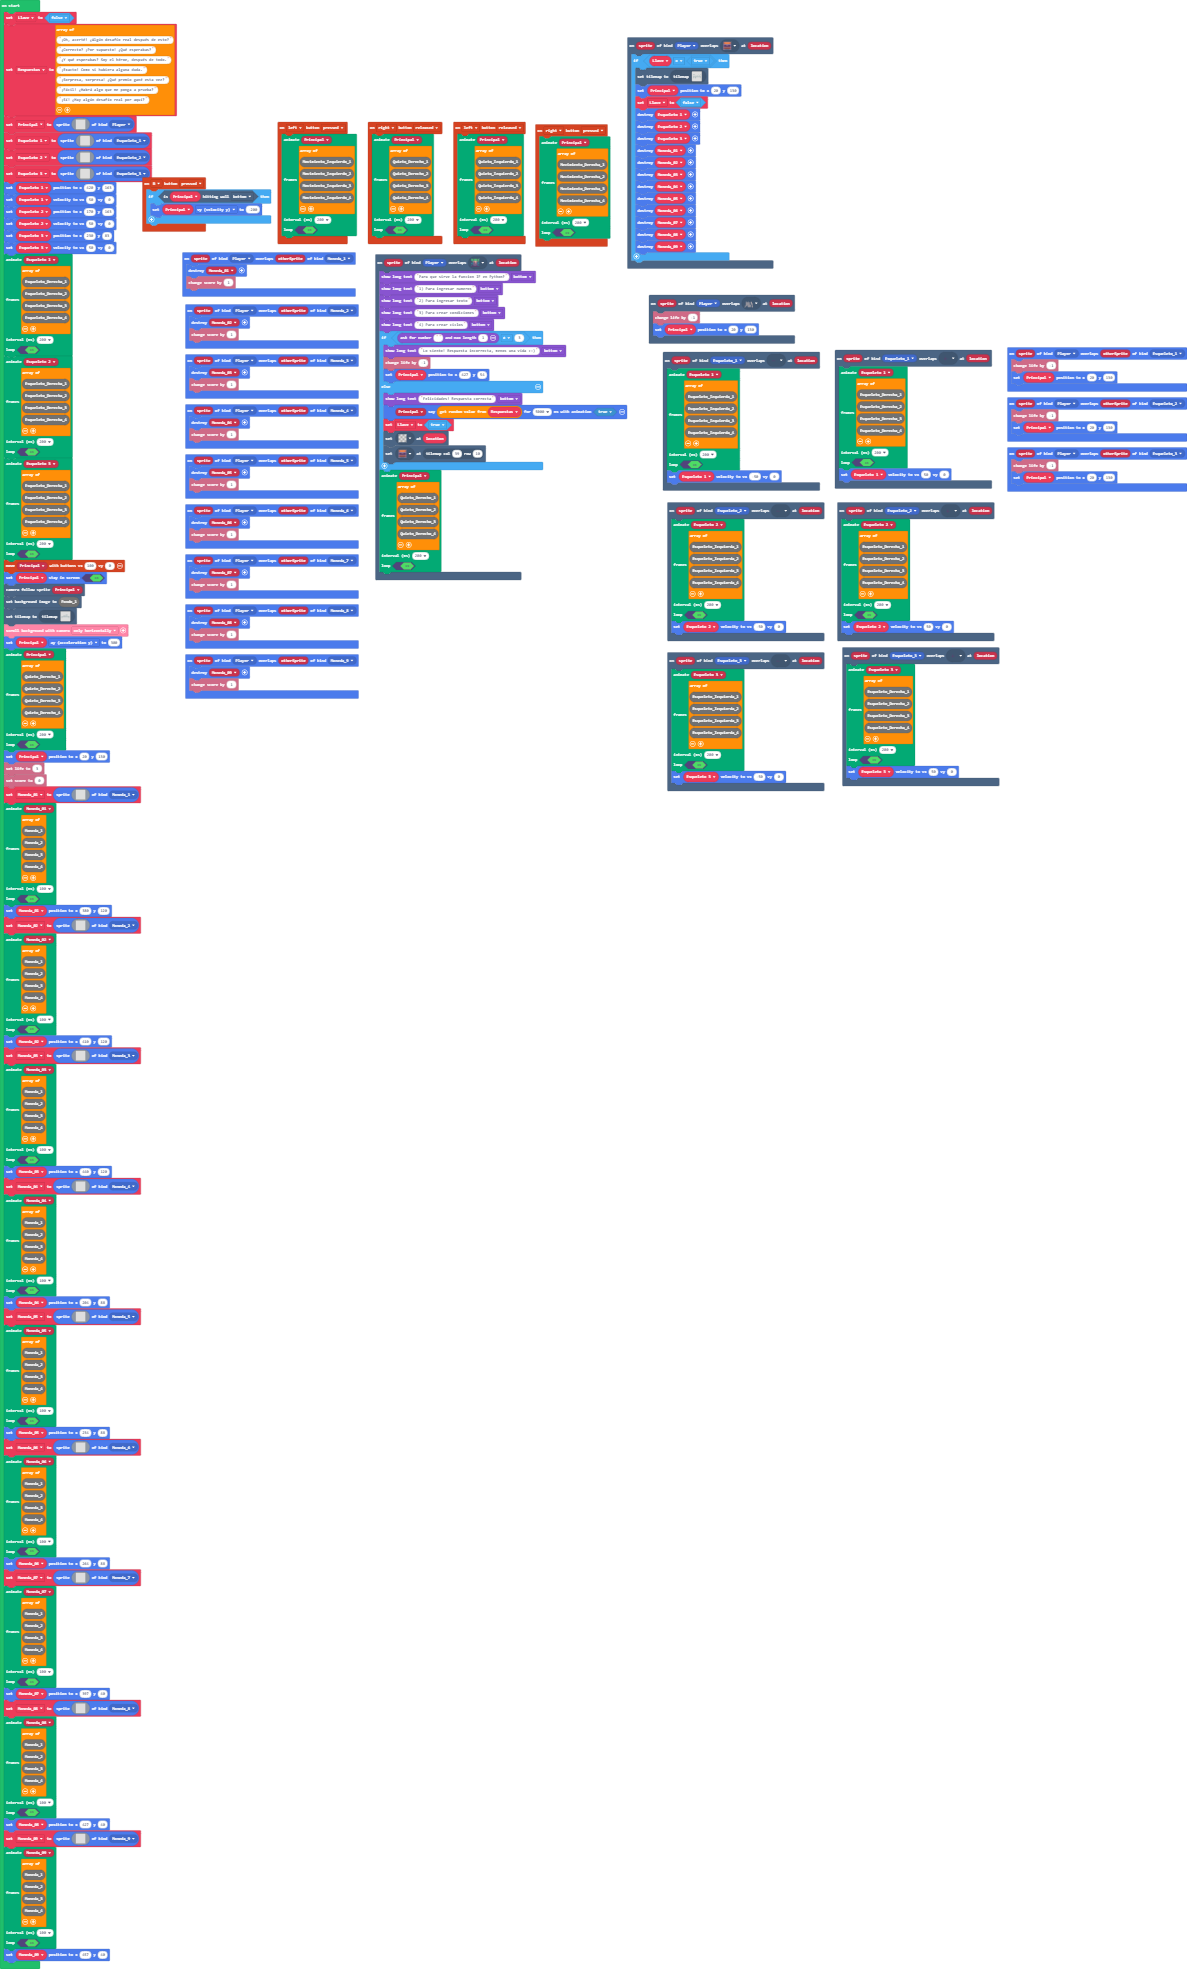
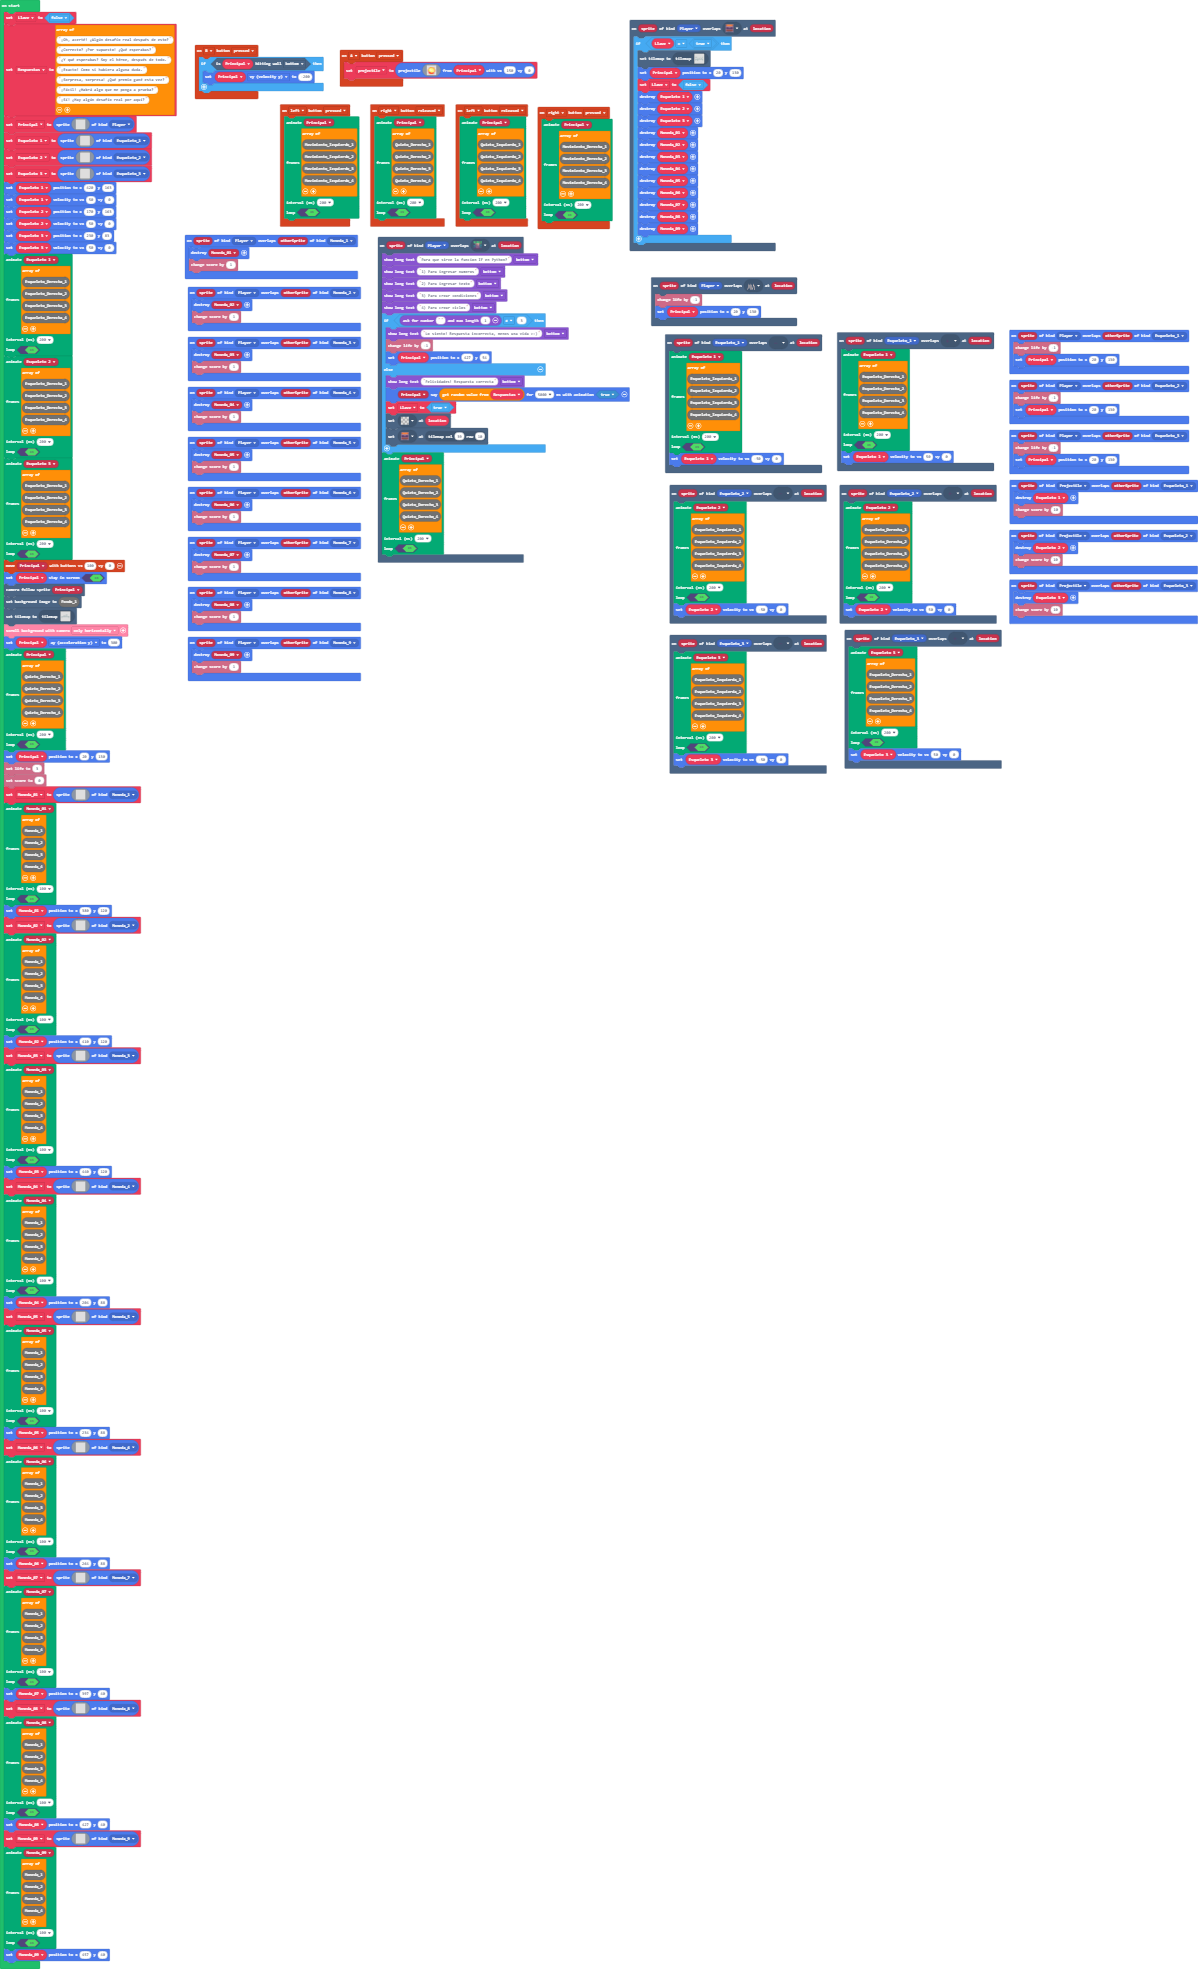
Muchas mas cosas

diff --git a/main.ts b/main.ts
@@ -26,6 +26,10 @@ scene.onOverlapTile(SpriteKind.Esqueleto_2, assets.tile`Izquierda`, function (sp
     )
     Esqueleto_2.setVelocity(-50, 0)
 })
+sprites.onOverlap(SpriteKind.Projectile, SpriteKind.Esqueleto_1, function (sprite, otherSprite) {
+    sprites.destroy(Esqueleto_1)
+    info.changeScoreBy(10)
+})
 controller.B.onEvent(ControllerButtonEvent.Pressed, function () {
     if (Principal.isHittingTile(CollisionDirection.Bottom)) {
         Principal.vy = -200
@@ -34,6 +38,26 @@ controller.B.onEvent(ControllerButtonEvent.Pressed, function () {
 scene.onOverlapTile(SpriteKind.Player, assets.tile`myTile`, function (sprite, location) {
     info.changeLifeBy(-1)
     Principal.setPosition(20, 130)
+})
+controller.A.onEvent(ControllerButtonEvent.Pressed, function () {
+    projectile = sprites.createProjectileFromSprite(img`
+        . . . . . . . . . . . . . . . . 
+        . . . . . . . . . . . . . . . . 
+        . . . . . 4 4 4 4 4 . . . . . . 
+        . . . 4 4 4 5 5 5 d 4 4 4 4 . . 
+        . . 4 d 5 d 5 5 5 d d d 4 4 . . 
+        . . 4 5 5 1 1 1 d d 5 5 5 4 . . 
+        . 4 5 5 5 1 1 1 5 1 1 5 5 4 4 . 
+        . 4 d d 1 1 5 5 5 1 1 5 5 d 4 . 
+        . 4 5 5 1 1 5 1 1 5 5 d d d 4 . 
+        . 2 5 5 5 d 1 1 1 5 1 1 5 5 2 . 
+        . 2 d 5 5 d 1 1 1 5 1 1 5 5 2 . 
+        . . 2 4 d d 5 5 5 5 d d 5 4 . . 
+        . . . 2 2 4 d 5 5 d d 4 4 . . . 
+        . . 2 2 2 2 2 4 4 4 2 2 2 . . . 
+        . . . 2 2 4 4 4 4 4 4 2 2 . . . 
+        . . . . . 2 2 2 2 2 2 . . . . . 
+        `, Principal, 150, 0)
 })
 scene.onOverlapTile(SpriteKind.Player, sprites.dungeon.greenSwitchUp, function (sprite, location) {
     game.showLongText("Para que sirve la funcion IF en Python?", DialogLayout.Bottom)
@@ -63,6 +87,10 @@ scene.onOverlapTile(SpriteKind.Player, sprites.dungeon.greenSwitchUp, function (
     200,
     true
     )
+})
+sprites.onOverlap(SpriteKind.Projectile, SpriteKind.Esqueleto_3, function (sprite, otherSprite) {
+    sprites.destroy(Esqueleto_3)
+    info.changeScoreBy(10)
 })
 sprites.onOverlap(SpriteKind.Player, SpriteKind.Moneda_3, function (sprite, otherSprite) {
     sprites.destroy(Moneda_03)
@@ -253,6 +281,11 @@ sprites.onOverlap(SpriteKind.Player, SpriteKind.Moneda_6, function (sprite, othe
     sprites.destroy(Moneda_06)
     info.changeScoreBy(1)
 })
+sprites.onOverlap(SpriteKind.Projectile, SpriteKind.Esqueleto_2, function (sprite, otherSprite) {
+    sprites.destroy(Esqueleto_2)
+    info.changeScoreBy(10)
+})
+let projectile: Sprite = null
 let Moneda_09: Sprite = null
 let Moneda_08: Sprite = null
 let Moneda_07: Sprite = null
